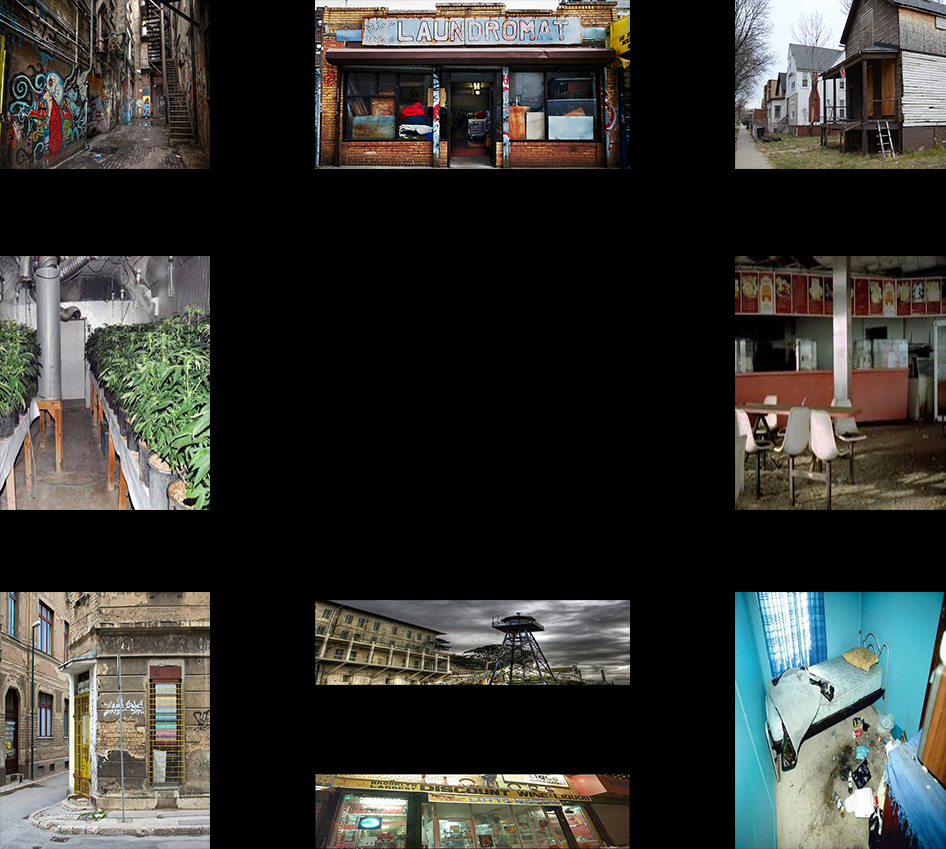
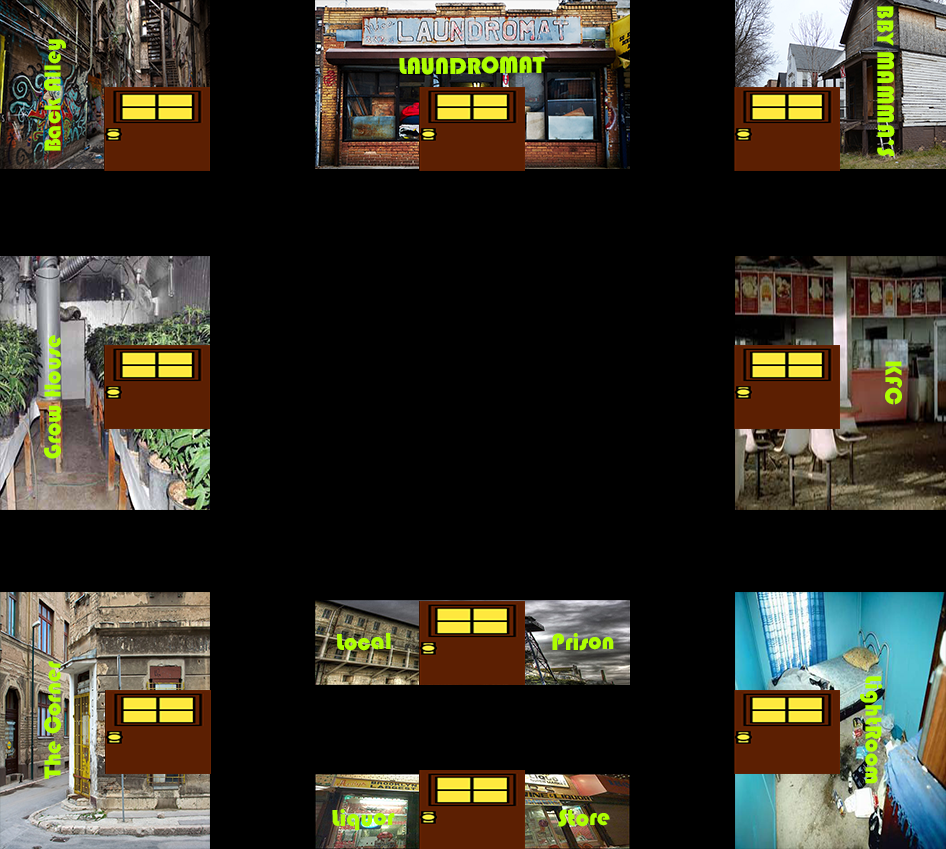
DOORS DOORS DOORS DOORS DOORS
Doors don't disappear because they're there but they're not actually
there ;). Also labeled the rooms.

diff --git a/GhettoClue/GhettoClue/Movement/StatusConverter.cs b/GhettoClue/GhettoClue/Movement/StatusConverter.cs
@@ -45,7 +45,7 @@ namespace GhettoClue.Movement
                 }
                 else
                 {
-                    brush.Color = Colors.Pink;
+                    brush.Color = Colors.Gray;
                 }
             }
             //}
@@ -56,7 +56,7 @@ namespace GhettoClue.Movement
             //}
             else if ((bool)values[2])
             {
-                brush.Color = Colors.Brown;
+                brush.Color = Colors.Transparent;
                 //Avalable
             }
             else if ((bool)values[3])
